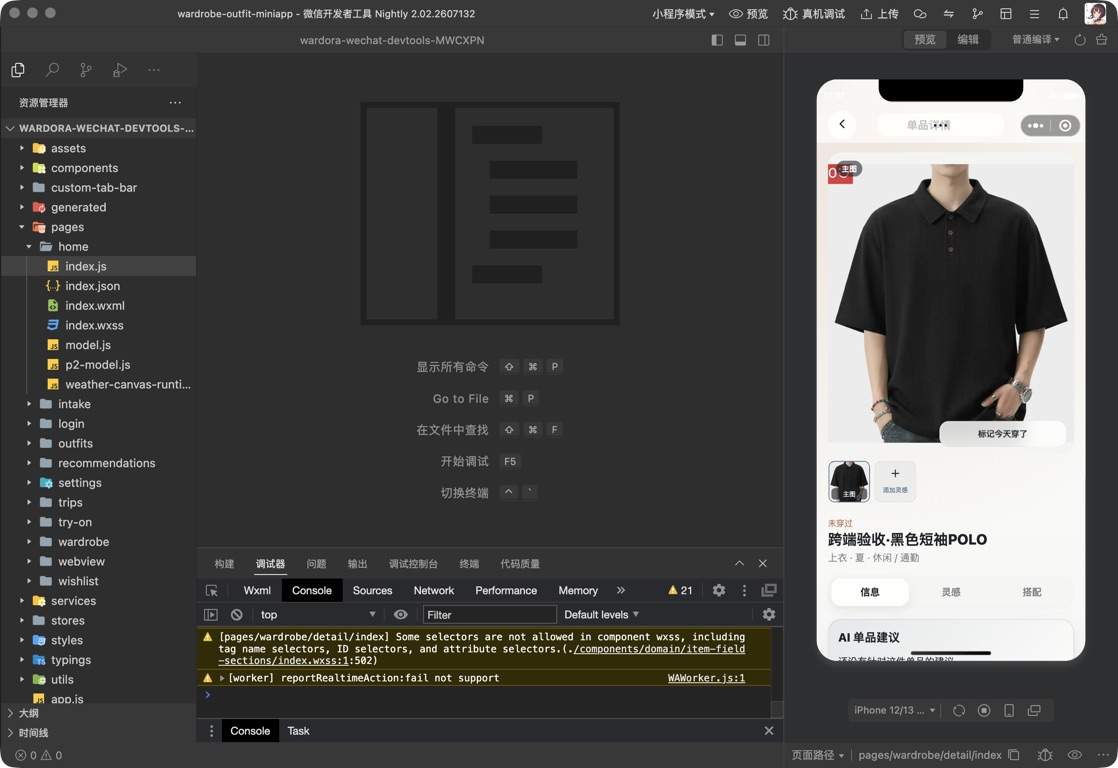
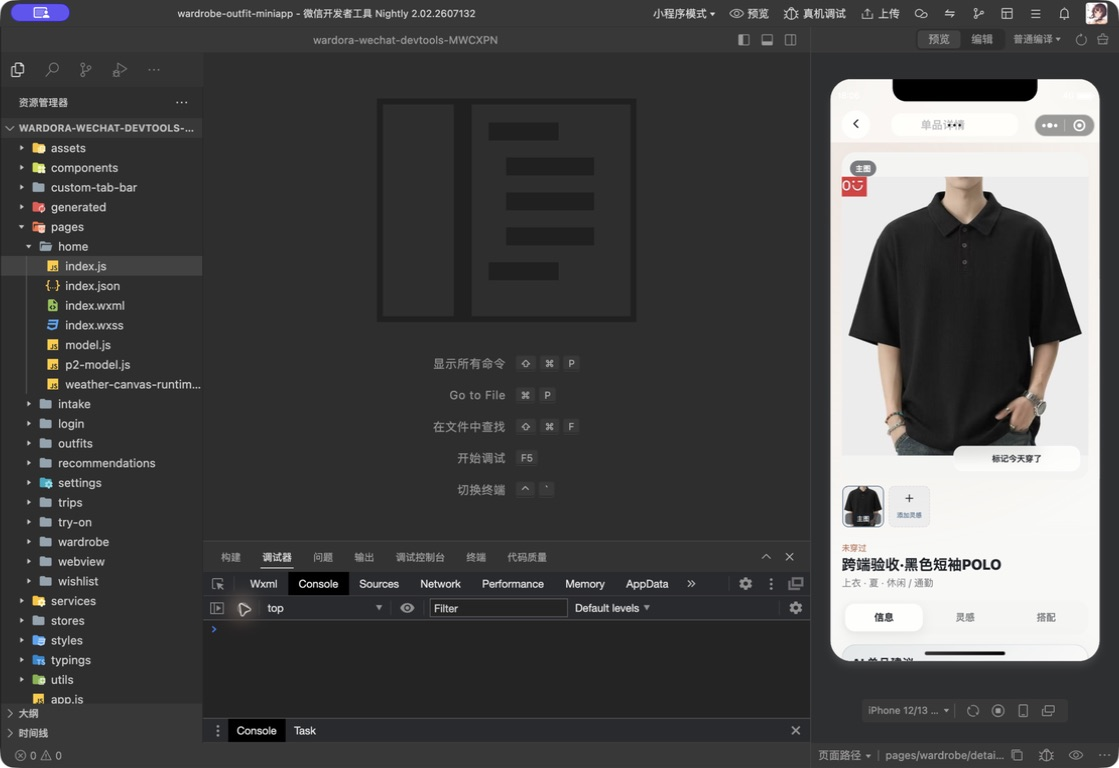
fix(miniprogram): close visual audit findings

diff --git a/apps/wechat-miniprogram/pages/wardrobe/detail/index.ts b/apps/wechat-miniprogram/pages/wardrobe/detail/index.ts
@@ -1,12 +1,13 @@
 import { aiEnhance, hasMiniMaxKey } from "../../../services/ai";
 import { chooseImages, uploadPreparedImageAssets, type AssetMutation } from "../../../services/assets";
 import { cancelGarmentWornOnDate, createClientMutationId, deleteWorkspaceEntity, fetchGarmentDetail, markGarmentWornOnDate, updateGarment, type MiniGarmentDetail } from "../../../services/workspace";
+import { currentAccessibilityFontStyle } from "../../../utils/accessibility-font";
 import { getRuntimeRefreshSnapshot, markRuntimeDomainDirty } from "../../../utils/runtime-refresh";
 
 type ReferenceMetadata = { id: string; fieldName: string; caption?: string; createdAt?: string; updatedAt?: string };
 
 Page({
-  data: { initialLoading: false, refreshing: false, deleting: false, wearActioning: false, wornToday: false, adviceLoading: false, adviceSummary: "", adviceTips: [] as string[], adviceSource: "", deleteSheetOpen: false, menuOpen: false, activeTab: "info", item: null as MiniGarmentDetail | null, error: "" },
+  data: { fontStyle: currentAccessibilityFontStyle(), initialLoading: false, refreshing: false, deleting: false, wearActioning: false, wornToday: false, adviceLoading: false, adviceSummary: "", adviceTips: [] as string[], adviceSource: "", deleteSheetOpen: false, menuOpen: false, activeTab: "info", item: null as MiniGarmentDetail | null, error: "" },
   onLoad(this: any, query?: { id?: string }) { wx.setNavigationBarTitle({ title: "单品详情" }); if (query?.id) { this.detailId = query.id; void this.loadDetail(query.id); } else this.setData({ error: "缺少单品 ID" }); },
   onShow(this: any) { const item = this.data.item as MiniGarmentDetail | null; if (item && getRuntimeRefreshSnapshot("garments").version !== this.detailDomainVersion) void this.loadDetail(item.id); },
   async loadDetail(this: any, id: string) { const requestId = (this.detailRequestId || 0) + 1; this.detailRequestId = requestId; const hasData = Boolean(this.data.item); this.setData({ initialLoading: !hasData, refreshing: hasData, error: "" }); try { const item = await fetchGarmentDetail(id); if (requestId !== this.detailRequestId) return; const advice = item.aiStyleAdvice; this.detailDomainVersion = getRuntimeRefreshSnapshot("garments").version; this.setData({ item, wornToday: item.wornDates.includes(localDateKey()), initialLoading: false, refreshing: false, adviceSummary: advice?.summary ?? "", adviceTips: advice ? [...advice.scenes, ...advice.pairingTips, ...advice.avoidTips].slice(0, 6) : [], adviceSource: advice ? "来自已保存的 AI 建议" : "" }); } catch (error) { if (requestId !== this.detailRequestId) return; this.setData({ initialLoading: false, refreshing: false, error: error instanceof Error ? error.message : "读取单品失败" }); if (hasData) wx.showToast({ title: "单品刷新失败，已保留当前内容", icon: "none" }); } },

diff --git a/apps/wechat-miniprogram/utils/accessibility-font.ts b/apps/wechat-miniprogram/utils/accessibility-font.ts
@@ -1,0 +1,36 @@
+const DEFAULT_FONT_SIZE_SETTING = 16;
+const MAX_FONT_SCALE = 1.5;
+
+const BASE_FONT_TOKENS = {
+  title: 44,
+  section: 34,
+  body: 28,
+  caption: 24,
+  label: 22,
+} as const;
+
+export function accessibilityFontStyle(fontSizeSetting: number): string {
+  const normalizedSetting = Number.isFinite(fontSizeSetting)
+    ? fontSizeSetting
+    : DEFAULT_FONT_SIZE_SETTING;
+  const scale = Math.min(
+    MAX_FONT_SCALE,
+    Math.max(1, normalizedSetting / DEFAULT_FONT_SIZE_SETTING),
+  );
+  return Object.entries(BASE_FONT_TOKENS)
+    .map(([token, size]) => `--font-${token}:${formatRpx(size * scale)}rpx`)
+    .join(";");
+}
+
+export function currentAccessibilityFontStyle(): string {
+  const systemInfo = (wx as typeof wx & {
+    getSystemInfoSync?: () => { fontSizeSetting?: number };
+  }).getSystemInfoSync?.();
+  return accessibilityFontStyle(
+    Number(systemInfo?.fontSizeSetting ?? DEFAULT_FONT_SIZE_SETTING),
+  );
+}
+
+function formatRpx(value: number): string {
+  return Number(value.toFixed(2)).toString();
+}

diff --git a/scripts/parity/tests/mini-item-detail-contract.test.ts b/scripts/parity/tests/mini-item-detail-contract.test.ts
@@ -44,9 +44,11 @@ assert.match(fields, /版型说明<\/text><text class="info-value">\{\{item\.fit
 assert.doesNotMatch(fields, /版型倾向<\/text><text class="info-value">\{\{item\.fitText\}\}/);
 assert.doesNotMatch(fieldsStyle, />text|:first-child|:last-child/);
 assert.match(detailShell, /mode="aspectFit"/);
-assert.match(detailShellStyle, /height:\s*52vh/);
-assert.match(detailShellStyle, /min-height:\s*600rpx/);
-assert.match(detailShellStyle, /max-height:\s*1000rpx/);
+assert.match(detailShellStyle, /height:\s*914\.67rpx/);
+assert.match(detailShellStyle, /aspect-ratio:\s*3\s*\/\s*4/);
+assert.doesNotMatch(detailShellStyle, /height:\s*52vh/);
+assert.match(garment, /style="\{\{fontStyle\}\}"/);
+assert.match(garmentTs, /currentAccessibilityFontStyle/);
 assert.match(wishlistTs, /toggleArchived/);
 assert.match(wishlistTs, /openConvertedGarment/);
 for (const source of [garmentTs, wishlistTs]) {

diff --git a/apps/wechat-miniprogram/pages/wardrobe/index/index.ts b/apps/wechat-miniprogram/pages/wardrobe/index/index.ts
@@ -3,6 +3,7 @@ import { MINI_CATEGORY_LABELS } from "../../../generated/catalogs";
 import { deleteWorkspaceEntity, fetchClosetLocations, fetchGarments, fetchOutfits, getWorkspaceReadState, type MiniClosetLocation, type MiniGarment } from "../../../services/workspace";
 import { getRuntimeSessionScope } from "../../../stores/session";
 import { selectCustomTab } from "../../../utils/custom-tab-bar";
+import { currentAccessibilityFontStyle } from "../../../utils/accessibility-font";
 import { markRuntimeDomainDirty, runRuntimeDomainRefresh } from "../../../utils/runtime-refresh";
 
 type CategoryChip = {
@@ -19,6 +20,7 @@ type LocationOption = {
 };
 Page({
   data: {
+    fontStyle: currentAccessibilityFontStyle(),
     initialLoading: false,
     refreshing: false,
     garments: [] as MiniGarment[],

diff --git a/scripts/parity/tests/mini-wardrobe-regression.test.ts b/scripts/parity/tests/mini-wardrobe-regression.test.ts
@@ -34,6 +34,8 @@ assert.match(indexTs, /refreshing/);
 assert.match(indexTs, /hasLoadedGarments/, "an empty but successfully loaded wardrobe must remain fresh");
 assert.match(indexTs, /getRuntimeSessionScope/, "switching accounts must clear the previous user's cards");
 assert.match(indexTs, /const preferredOrder = \["tops", "pants", "shoes"\]/);
+assert.match(indexTs, /currentAccessibilityFontStyle/);
+assert.match(indexWxml, /style="\{\{fontStyle\}\}"/);
 assert.doesNotMatch(indexTs.match(/onLoad\(\)[\s\S]*?\n\s*},/)?.[0] ?? "", /loadGarments/);
 assert.doesNotMatch(indexTs.match(/catch \(error\) \{[\s\S]*?\n\s*}/)?.[0] ?? "", /garments:\s*\[\]/);
 assert.match(indexWxml, /wx:if="\{\{garments\.length > 0\}\}" class="garment-grid"/);

diff --git a/apps/wechat-miniprogram/scripts/test-accessibility-font.ts b/apps/wechat-miniprogram/scripts/test-accessibility-font.ts
@@ -1,0 +1,15 @@
+import assert from "node:assert/strict";
+import { accessibilityFontStyle } from "../utils/accessibility-font";
+
+assert.equal(
+  accessibilityFontStyle(16),
+  "--font-title:44rpx;--font-section:34rpx;--font-body:28rpx;--font-caption:24rpx;--font-label:22rpx",
+);
+assert.equal(
+  accessibilityFontStyle(23),
+  "--font-title:63.25rpx;--font-section:48.88rpx;--font-body:40.25rpx;--font-caption:34.5rpx;--font-label:31.63rpx",
+);
+assert.equal(accessibilityFontStyle(80), accessibilityFontStyle(24));
+assert.equal(accessibilityFontStyle(Number.NaN), accessibilityFontStyle(16));
+
+console.log("miniprogram accessibility font scaling passed");

diff --git a/apps/wechat-miniprogram/evidence/dual-end-fixes-20260724/REPORT.md b/apps/wechat-miniprogram/evidence/dual-end-fixes-20260724/REPORT.md
@@ -18,7 +18,7 @@
 |---|---|---|
 | DUAL-P0-001 | PASS | 所有 workspace 列表请求强制 `limit<=200`，持续跟随 `nextCursor` 读取完整集合；重复游标、重复实体和超页数均显式失败 |
 | DUAL-P2-001 | PASS | 详情 hero 提供“标记今天穿了”；POST 后再次 GET，只有服务器明确返回 `worn/wornAt/wearEventId` 才更新；取消同样要求严格读回 |
-| DUAL-P2-002 | PASS | hero 使用 `aspectFit`、52vh 且 600–1000rpx 边界，缩略图和标题层级按 UI spec 收敛；保留微信胶囊和原生标题 |
+| DUAL-P2-002 | PASS | hero 使用 `aspectFit` 与明确的 `3:4` 容器（686×914.67rpx），缩略图和标题层级按 UI spec 收敛；保留微信胶囊和原生标题 |
 | DUAL-P2-003 | PASS | “版型倾向”与“版型说明”拆分；说明使用独立可换行值区，不挤压标签 |
 | DUAL-P3-001 | PASS | 衣橱筛选为“全部/上衣/裤子/鞋”，实时数量分别为 8/4/2/2，筛选结果与服务器实体一致 |
 
@@ -40,16 +40,17 @@
 | 标记/取消后恢复 | PASS | `wechat-devtools-390x844-detail-wear-restored.png` |
 | 360 宽 | PASS | `wechat-devtools-360x640-wardrobe.png` |
 | 430 宽 | PASS | `wechat-devtools-430x932-wardrobe.png` |
-| 字体放大 | PASS | `wechat-devtools-360x640-font-144pct-wardrobe.png`；开发者工具 23/16，约 144%，强于 130% 门槛 |
+| 字体放大 | PASS | `wechat-devtools-360x640-font-144pct-wardrobe.png`；读取开发者工具 `fontSizeSetting=23` 并按 23/16 实际放大页面字号，主体与 16 基线有明确可见差异，强于 130% 门槛 |
 | loading/error/retry | PASS | 页面保留 `initialLoading/refreshing/error` 与 retry；手写合同门禁校验失败不冒充空数据，正式源码错误态曾在网络域名限制下实际触发 |
 | Android/微信差异 | EXPECTED | 保留微信胶囊、原生标题与字体栅格差异；不按 Android 像素盲抄 |
 
-截图为开发者工具整窗证据，右侧模拟器展示正式页面，左侧工程树和底部控制台用于证明运行来源。早期网络失败截图已移出证据目录。
+截图为开发者工具整窗证据，右侧模拟器展示正式页面，左侧工程树和底部控制台用于证明运行来源。首轮只读审查指出字体截图未实际放大、hero 不足 3:4、360 控制台含旧 401；随后增加系统字号 token 映射、将 hero 收敛到明确 3:4，并在清空控制台后重拍 360/390/430 与详情证据。早期网络失败和旧告警截图均不在当前证据中。
 
 ## 自动化门禁
 
 ```text
 npm --prefix apps/wechat-miniprogram run typecheck                 PASS
+npm --prefix apps/wechat-miniprogram run test:accessibility-font   PASS
 npm --prefix apps/wechat-miniprogram run test:workspace-pagination PASS
 npm --prefix apps/wechat-miniprogram run test:workspace-wear-state PASS
 npm run test:logic:miniprogram-item-detail                         PASS
@@ -59,6 +60,8 @@ git diff --check                                                   PASS
 ```
 
 分页手写测试覆盖：调用者传入 `500` 时每次网络请求仍为 `200`；多页无重复无遗漏；重复游标与重复实体均抛出可见错误。穿着手写测试覆盖：历史日期与当前直接穿着状态合并、mark 严格读回、cancel 严格读回，以及缺失/错误服务器字段时拒绝成功。
+
+首轮独立只读视觉审查结论为 P0 0 / P1 1 / P2 2 / P3 0，未建议交付；指出的三项分别为无效字体放大证据、hero 比例不足、360 截图带旧 401。修复并重拍后，第二轮独立只读视觉审查结论为 **P0 0 / P1 0 / P2 0 / P3 0，建议交付**；字体放大、3:4 hero、干净控制台、版型拆分和筛选顺序均已关闭。
 
 ## 限制与安全
 

diff --git a/VERSION_HISTORY.md b/VERSION_HISTORY.md
@@ -11,8 +11,8 @@
 
 - workspace 分页统一限制单次 `limit<=200` 并跟随 `nextCursor` 完整读取；重复游标、重复实体和异常页数显式失败，关闭生产首页 `Workspace 请求格式不正确`。
 - 单品详情补齐服务器权威的“标记今天穿了”及取消读回，复用稳定 `clientMutationId`，不做乐观成功或本地队列；受控 POLO 往返后恢复未穿，8 件衣物未编辑、未删除。
-- 详情 hero 按 3:4 图片语义收敛 `aspectFit`、高度边界、缩略图与标题层级；“版型倾向/版型说明”拆分并支持长文案，衣橱筛选统一为全部/上衣/裤子/鞋。
-- TypeScript、分页/穿着手写测试、详情/衣橱/首页回归与正式源码 WeChat DevTools 360/390/430、约 144% 字体证据通过；详见 `apps/wechat-miniprogram/evidence/dual-end-fixes-20260724/REPORT.md`。
+- 详情 hero 按 3:4 图片语义收敛 `aspectFit`、明确 686×914.67rpx 容器、缩略图与标题层级；“版型倾向/版型说明”拆分并支持长文案，衣橱筛选统一为全部/上衣/裤子/鞋。
+- TypeScript、分页/穿着/系统字号手写测试、详情/衣橱/首页回归与正式源码 WeChat DevTools 360/390/430、实际约 144% 字号证据通过；首轮视觉审查问题修复重拍后，第二轮独立只读审查 P0/P1/P2/P3 全为 0、建议交付，详见 `apps/wechat-miniprogram/evidence/dual-end-fixes-20260724/REPORT.md`。
 - 本批只停在独立任务分支，未合入 `wechat/miniprogram`、未上传小程序、未部署 API；等待第一批 main/App/API 修复完成后再同步与串行集成。
 
 ## 2026-07-18 / v2.1.31-test / P4 — 微信小程序新首页完整对齐
